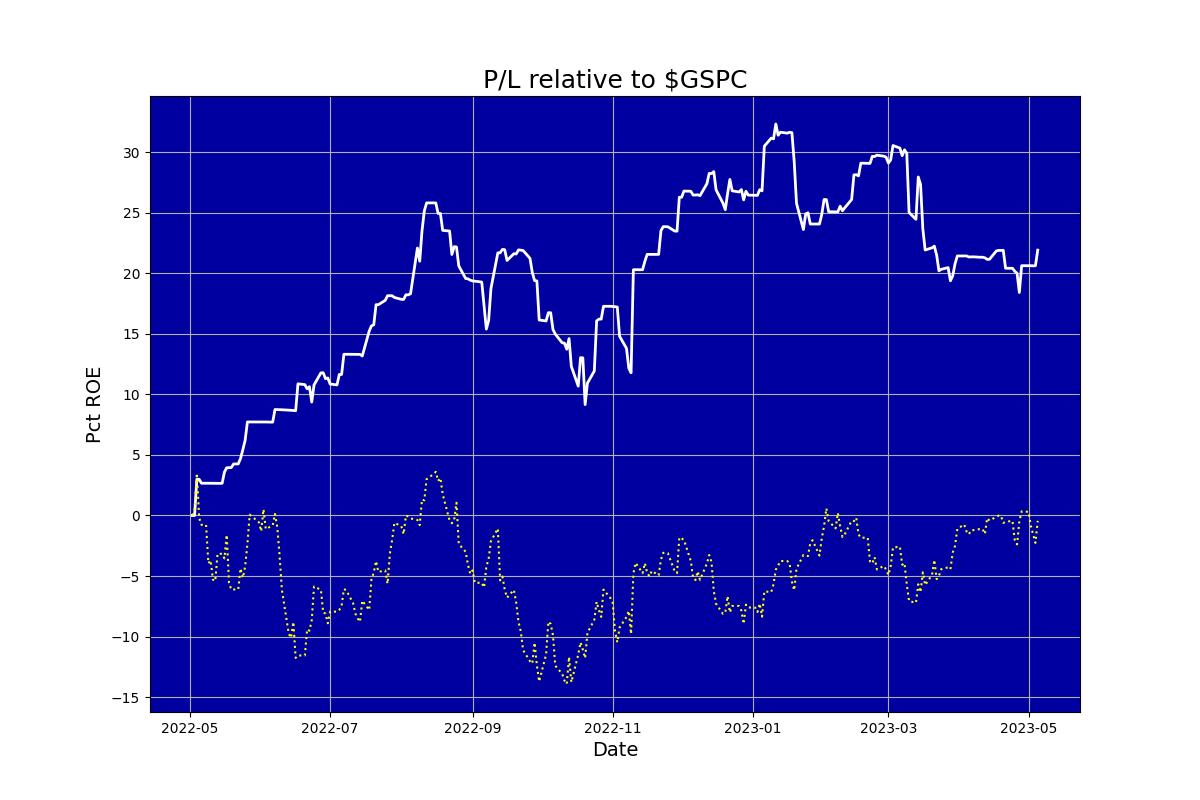
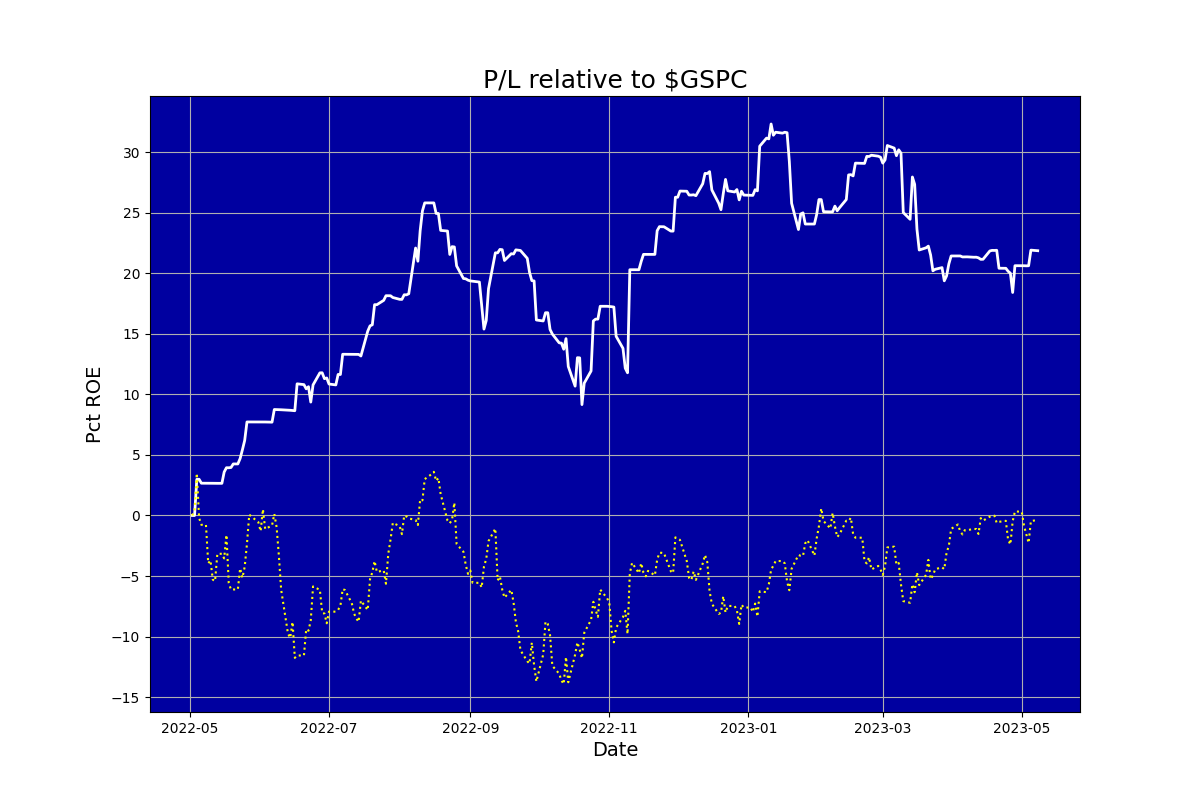
Updated

diff --git a/ig_report.html b/ig_report.html
@@ -1,1 +1,1 @@
-<html><body><center><h1>Auriel (never knowingly overbought)</h1></center><table cols=2><tr><td><img src=ig_pl.png></td><td><table cols=2><tr><td colspan=2><b><br>Snapshot</b></td></tr><tr><td>Last updated:&nbsp;&nbsp;&nbsp;</td><td>2023-05-05 15:54</td></tr><tr><td>Margin:&nbsp;&nbsp;&nbsp;</td><td>0.15</td></tr><tr><td>Cushion:&nbsp;&nbsp;&nbsp;</td><td>-8583.54</td></tr><tr><td>Last closed trade:&nbsp;&nbsp;&nbsp;</td><td>2023-05-05</td></tr><tr><td colspan=2><b><br>Positions</b></td></tr><tr><td>Mean days to new high:&nbsp;&nbsp;&nbsp;</td><td>12.39</td></tr><tr><td colspan=2><b><br>Trades</b></td></tr><tr><td>Traded days:&nbsp;&nbsp;&nbsp;</td><td>267</td></tr><tr><td>Profitable days pct:&nbsp;&nbsp;&nbsp;</td><td>38.20</td></tr><tr><td>Days beat S&P pct:&nbsp;&nbsp;&nbsp;</td><td>55.69</td></tr><tr><td>Profitable months pct:&nbsp;&nbsp;&nbsp;</td><td>69.23</td></tr><tr><td colspan=2><b><br>Performance</b></td></tr><tr><td>Pct median monthly ROE:&nbsp;&nbsp;&nbsp;</td><td>1.29</td></tr><tr><td>Pct annualised ROE:&nbsp;&nbsp;&nbsp;</td><td>20.52</td></tr><tr><td colspan=2><b><br>Risk</b></td></tr><tr><td>Volatility pct:&nbsp;&nbsp;&nbsp;</td><td>19.25</td></tr><tr><td>Benchmark volatility pct:&nbsp;&nbsp;&nbsp;</td><td>22.33</td></tr><tr><td>Sharpe ratio (RFR 5.0%):&nbsp;&nbsp;&nbsp;</td><td>0.90</td></tr><tr><td>Sortino ratio (RFR 5.0%):&nbsp;&nbsp;&nbsp;</td><td>1.24</td></tr><tr><td>Calmar ratio:&nbsp;&nbsp;&nbsp;</td><td>1.23</td></tr><tr><td>Worst drawdown pct:&nbsp;&nbsp;&nbsp;</td><td>-0.17</td></tr><tr><td>Recovery days from worst drawdown:&nbsp;&nbsp;&nbsp;</td><td>29.00</td></tr><tr><td>Beat benchmark +ve periods pct:&nbsp;&nbsp;&nbsp;</td><td>61.35</td></tr><tr><td>Beat benchmark -ve periods pct:&nbsp;&nbsp;&nbsp;</td><td>88.85</td></tr><tr><td>Correlation with benchmark:&nbsp;&nbsp;&nbsp;</td><td>0.35</td></tr></table></td></tr></table></body></html>
+<html><body><center><h1>Auriel (never knowingly overbought)</h1></center><table cols=2><tr><td><img src=ig_pl.png></td><td><table cols=2><tr><td colspan=2><b><br>Snapshot</b></td></tr><tr><td>Last updated:&nbsp;&nbsp;&nbsp;</td><td>2023-05-08 15:53</td></tr><tr><td>Margin:&nbsp;&nbsp;&nbsp;</td><td>0.15</td></tr><tr><td>Cushion:&nbsp;&nbsp;&nbsp;</td><td>-8599.81</td></tr><tr><td>Last closed trade:&nbsp;&nbsp;&nbsp;</td><td>2023-05-08</td></tr><tr><td colspan=2><b><br>Positions</b></td></tr><tr><td>Mean days to new high:&nbsp;&nbsp;&nbsp;</td><td>12.49</td></tr><tr><td colspan=2><b><br>Trades</b></td></tr><tr><td>Traded days:&nbsp;&nbsp;&nbsp;</td><td>268</td></tr><tr><td>Profitable days pct:&nbsp;&nbsp;&nbsp;</td><td>38.06</td></tr><tr><td>Days beat S&P pct:&nbsp;&nbsp;&nbsp;</td><td>55.08</td></tr><tr><td>Profitable months pct:&nbsp;&nbsp;&nbsp;</td><td>69.23</td></tr><tr><td colspan=2><b><br>Performance</b></td></tr><tr><td>Pct median monthly ROE:&nbsp;&nbsp;&nbsp;</td><td>1.24</td></tr><tr><td>Pct annualised ROE:&nbsp;&nbsp;&nbsp;</td><td>20.40</td></tr><tr><td colspan=2><b><br>Risk</b></td></tr><tr><td>Volatility pct:&nbsp;&nbsp;&nbsp;</td><td>19.21</td></tr><tr><td>Benchmark volatility pct:&nbsp;&nbsp;&nbsp;</td><td>22.29</td></tr><tr><td>Sharpe ratio (RFR 5.0%):&nbsp;&nbsp;&nbsp;</td><td>0.89</td></tr><tr><td>Sortino ratio (RFR 5.0%):&nbsp;&nbsp;&nbsp;</td><td>1.24</td></tr><tr><td>Calmar ratio:&nbsp;&nbsp;&nbsp;</td><td>1.22</td></tr><tr><td>Worst drawdown pct:&nbsp;&nbsp;&nbsp;</td><td>-0.17</td></tr><tr><td>Recovery days from worst drawdown:&nbsp;&nbsp;&nbsp;</td><td>29.00</td></tr><tr><td>Beat benchmark +ve periods pct:&nbsp;&nbsp;&nbsp;</td><td>61.02</td></tr><tr><td>Beat benchmark -ve periods pct:&nbsp;&nbsp;&nbsp;</td><td>88.82</td></tr><tr><td>Correlation with benchmark:&nbsp;&nbsp;&nbsp;</td><td>0.36</td></tr></table></td></tr></table></body></html>
